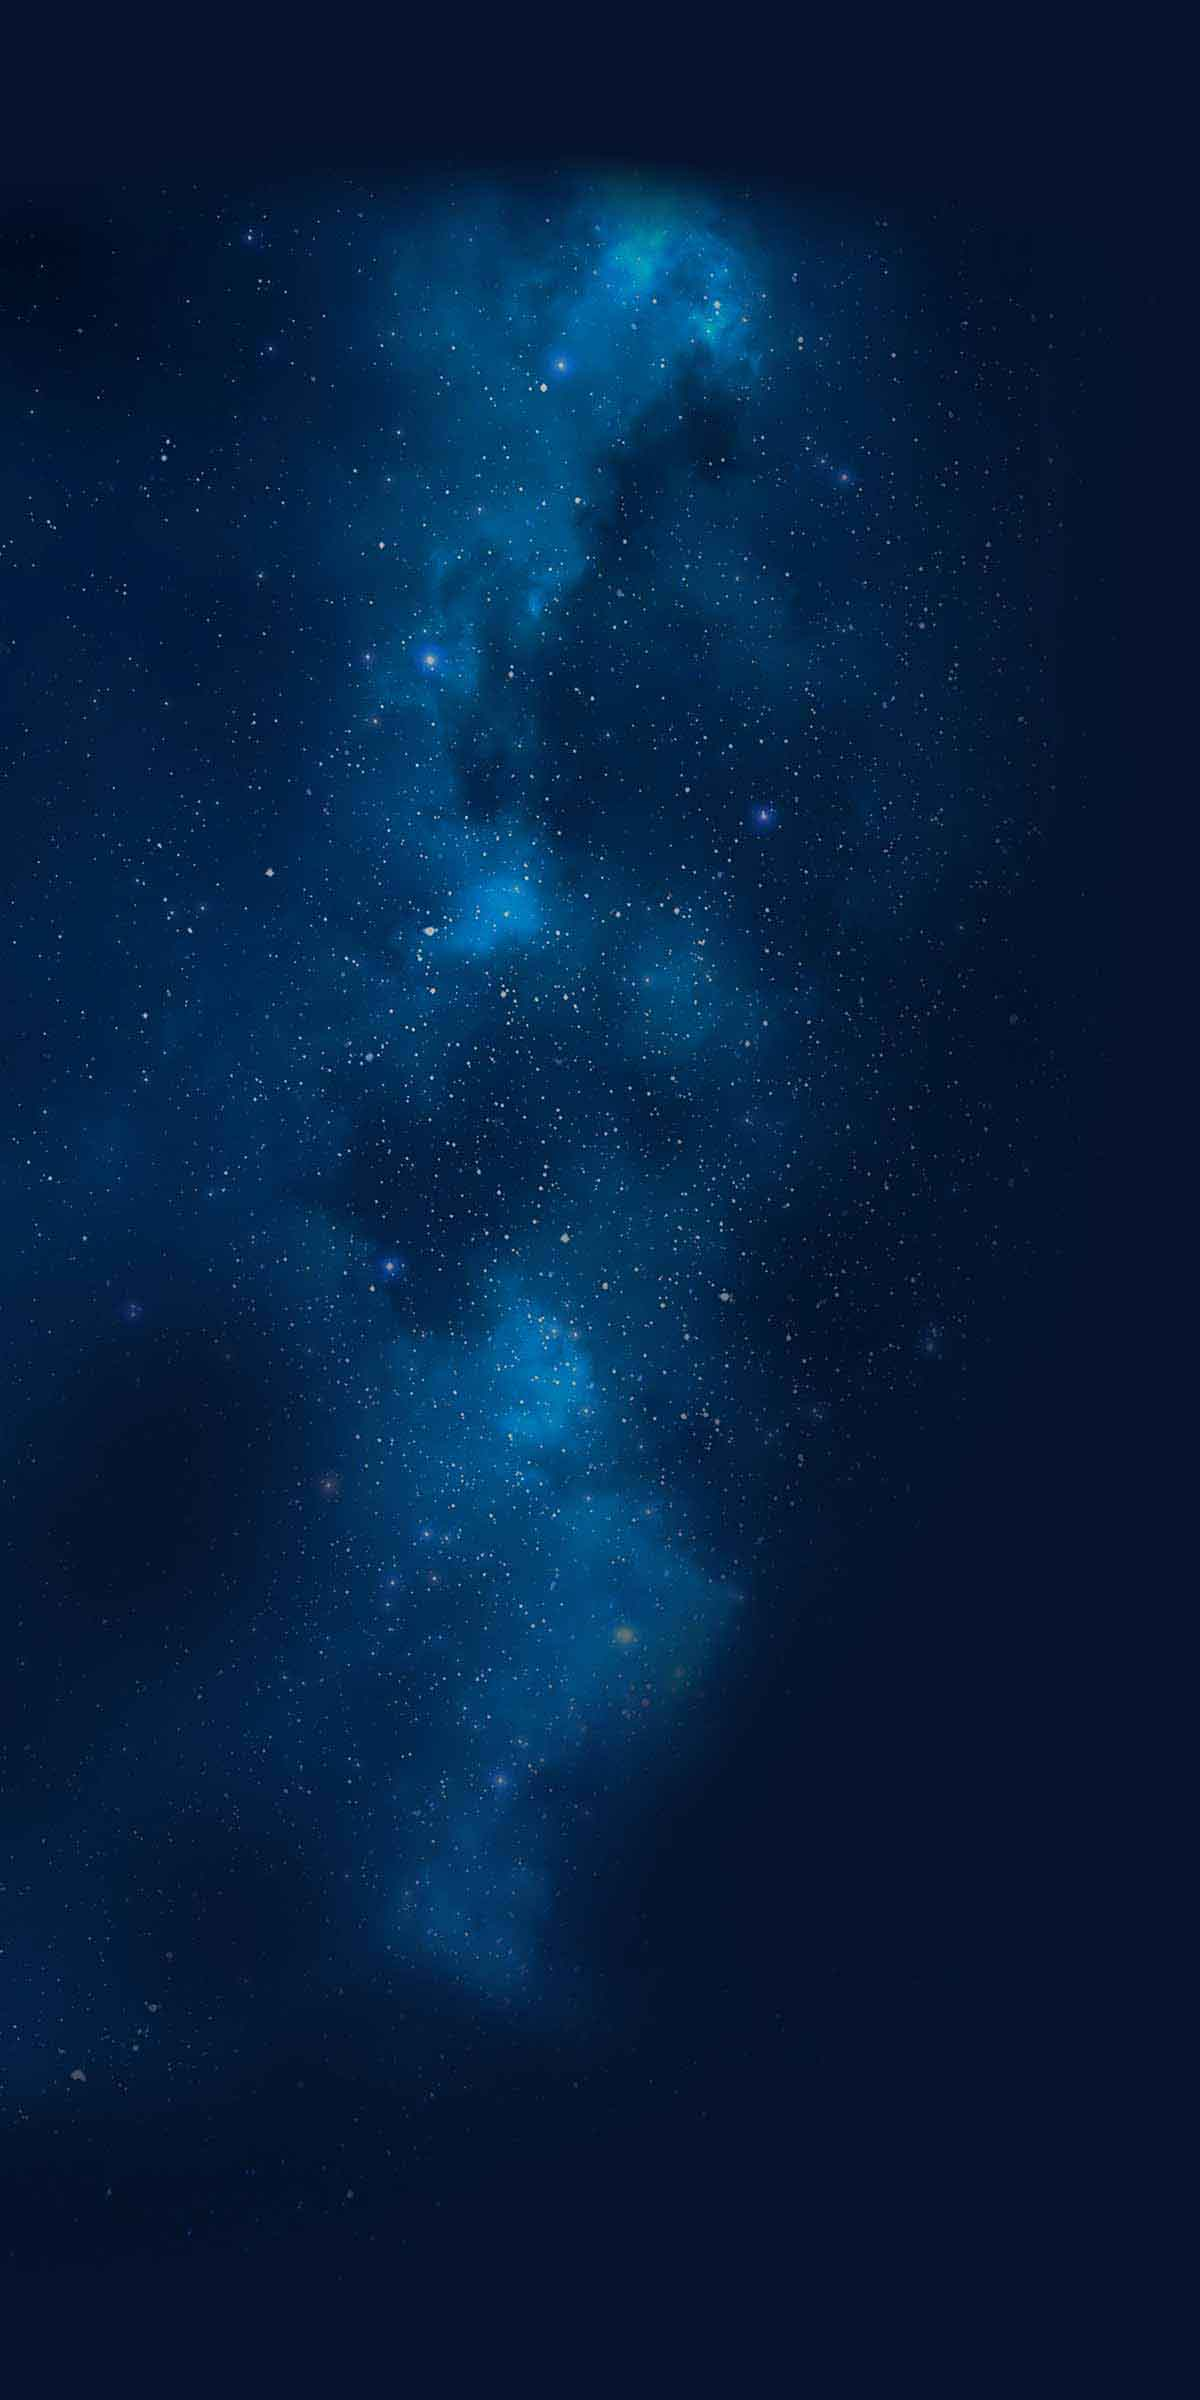
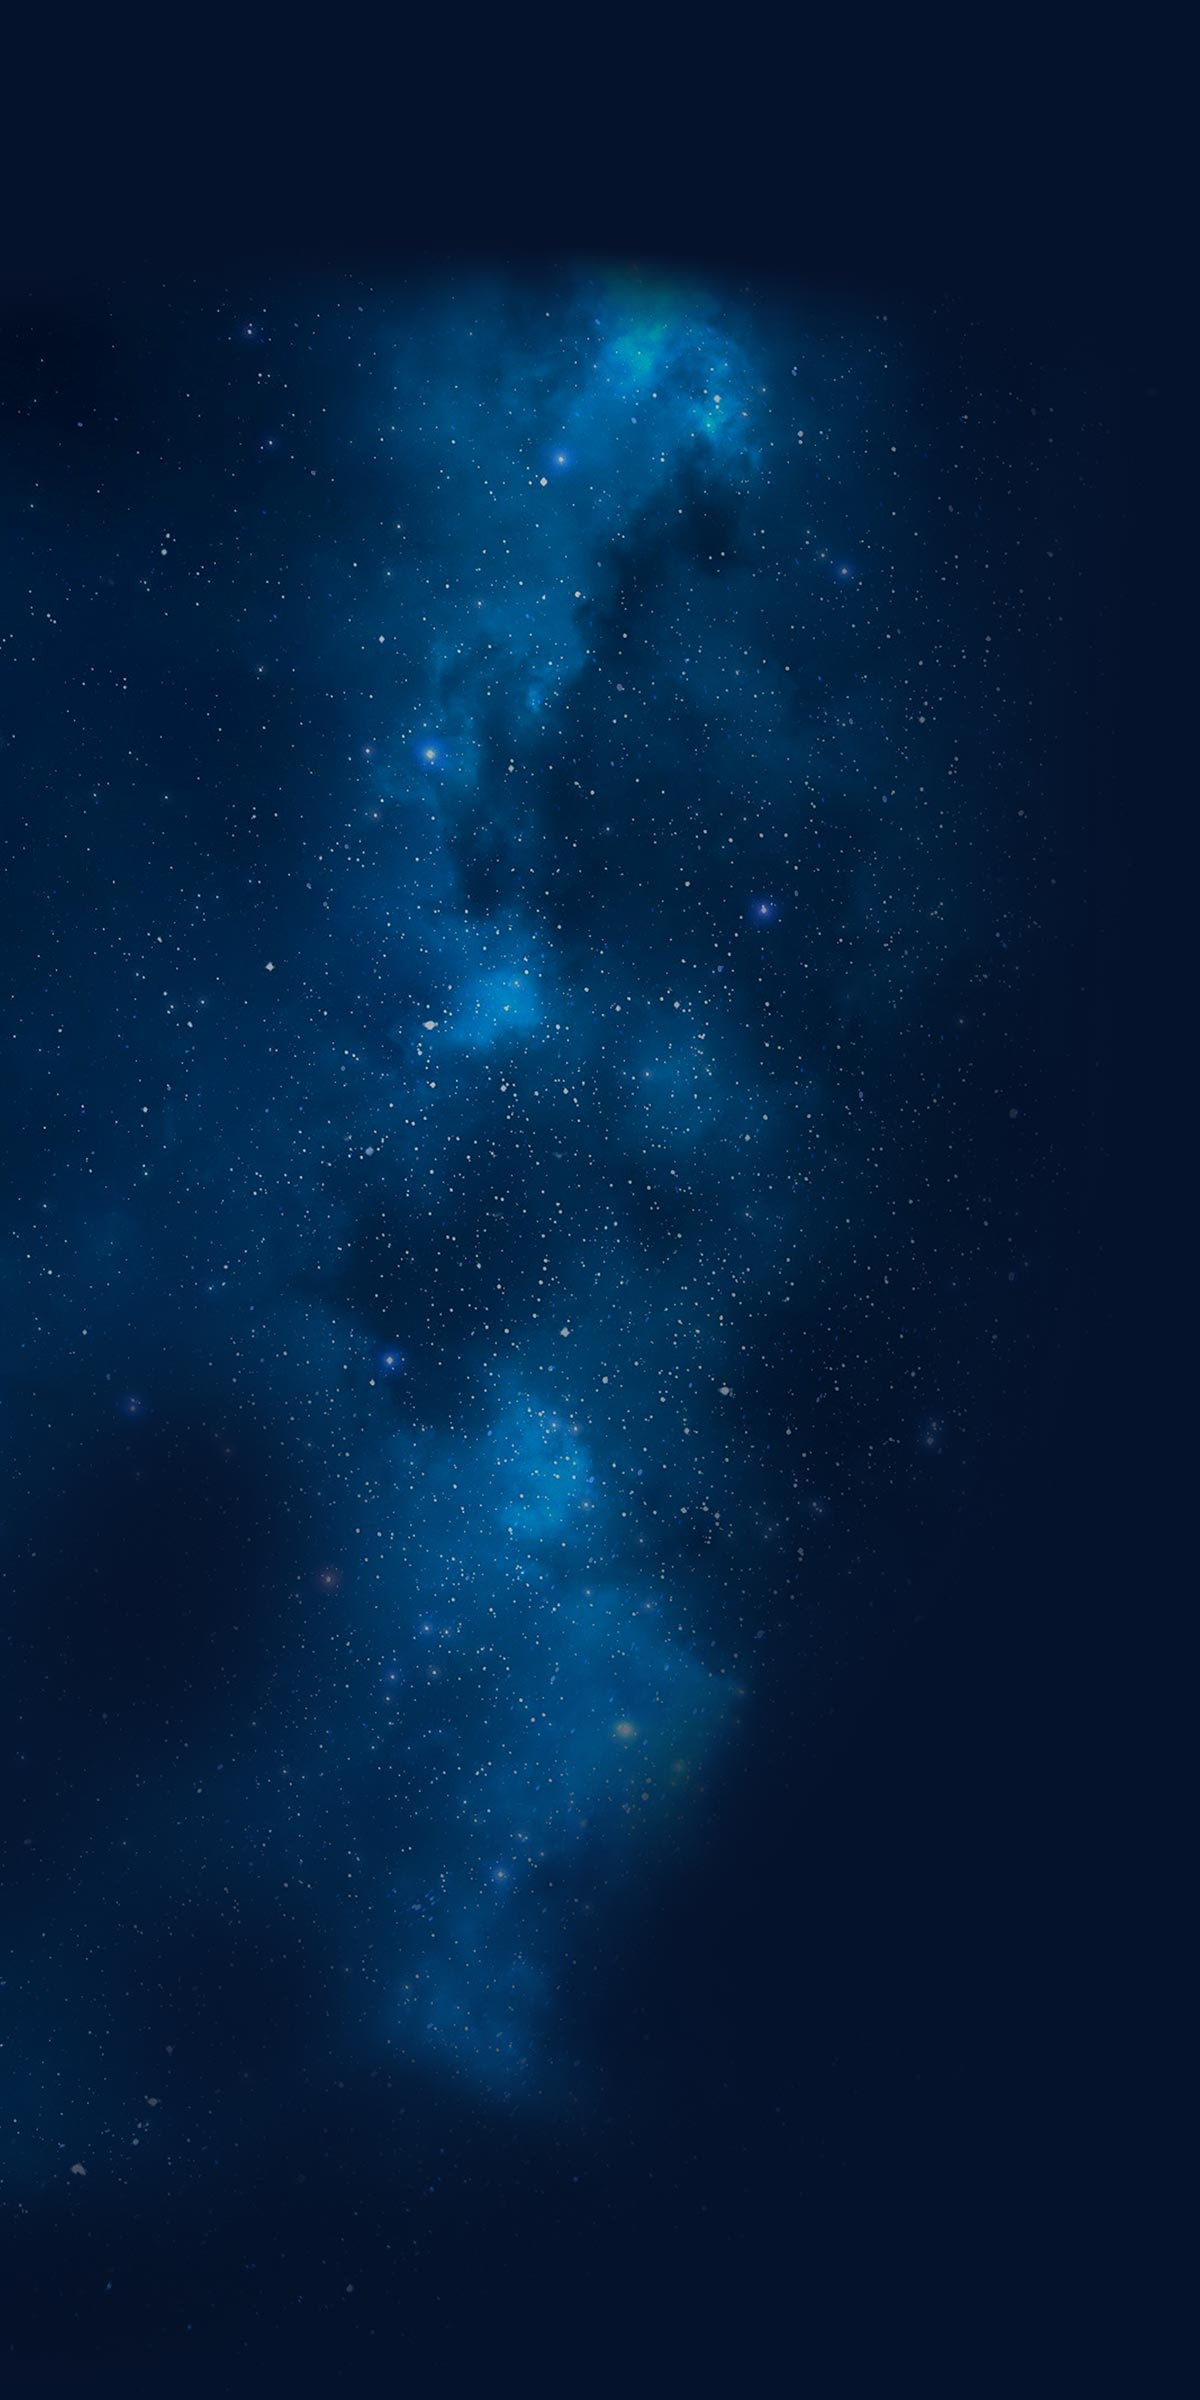
update xcor

diff --git a/xcor/css/styles.css b/xcor/css/styles.css
@@ -78,7 +78,6 @@ body {
 }
 
 #lynx { 
-    height: auto;  
     float: left;
     margin-top: 100px;
     /*margin: 0 auto; */
@@ -102,11 +101,10 @@ body {
 
 #stargazer { 
     background: url(../assets/section_background_03.png) no-repeat bottom; 
-    height: 600px; 
+    height: 600px;
     width: 1200px; 
     float: left;
     position: relative; 
-    /*padding: 300 325px;*/
     color: #fff;
     bottom: 0;
 }
